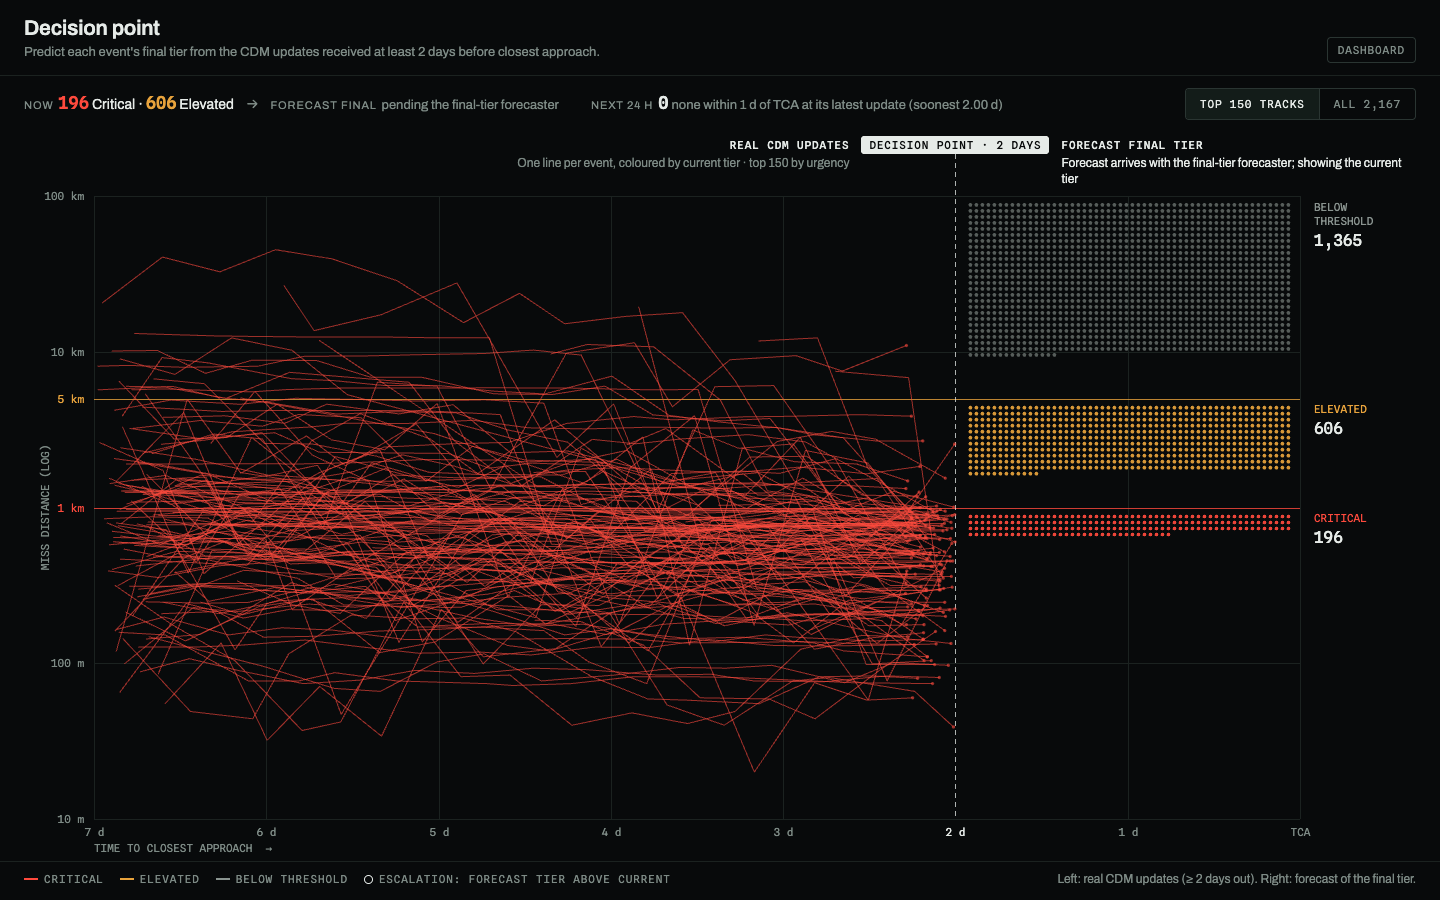
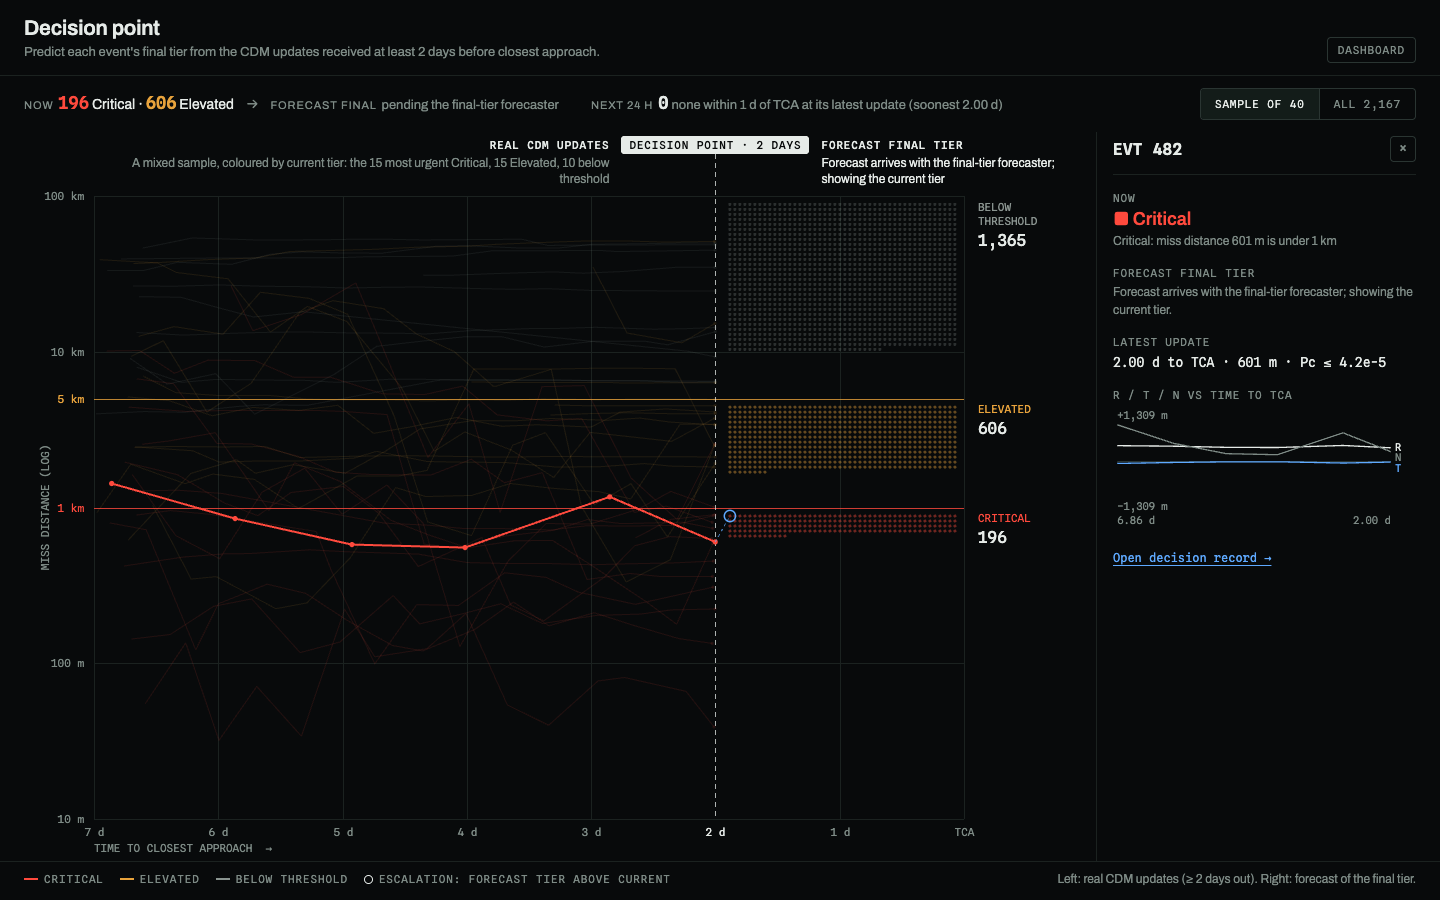
Decision point: mixed 40-track sample, R/T/N chart from history
Default left side is a mixed sample (every escalation once a forecast exists,
plus the 15 most urgent Critical, 15 Elevated, 10 below threshold) at 0.35
opacity; hovered or selected track at full opacity. All 2,167 stays a toggle.
Rebased on #55, so the side card draws R/T/N vs time to TCA from
history[].relative_position_rtn_m. Forecast placeholder unchanged; it switches
to event.forecast automatically when present.

diff --git a/static/js/decision.js b/static/js/decision.js
@@ -8,7 +8,7 @@ import { TIERS, clamp, esc, fmtDays, fmtDist, fmtPc } from "./fmt.js";
 
 const DECISION = 2; // days: the official task predicts from messages at least this far out
 const X_MAX = 7;
-const TOP_N = 150;
+const SAMPLE = { 2: 15, 1: 15, 0: 10 }; // default tracks per current tier, most urgent first, plus every escalation
 const Y_MIN = -2, Y_MAX = 2; // log10 km: 10 m .. 100 km
 const ZONES = [ // forecast tier zones on the right, bounded by the 1 km / 5 km thresholds
   { tier: 2, lo: 0.01, hi: 1, label: ["CRITICAL"] },
@@ -32,7 +32,8 @@ const rank = new Map(); // event_id -> urgency index
 const hist = new Map(); // event_id -> [{t, km}] sorted far -> near
 const marks = new Map(); // event_id -> {x, y, r}
 let anyForecast = false;
-let show = "top";
+let show = "sample";
+let sample = [];
 let selected = null, hover = null;
 let w = 0, h = 0, pitch = 6;
 let dirty = true;
@@ -65,7 +66,9 @@ async function init() {
   events = res.events;
   events.forEach((e, i) => (byId.set(e.event_id, e), rank.set(e.event_id, i)));
   anyForecast = events.some((e) => forecast(e).real);
+  buildSample();
   $("show-all").textContent = `All ${n(events.length)}`;
+  $("show-sample").textContent = `Sample of ${n(sample.length)}`;
   renderCounts();
   renderHeads();
 
@@ -87,7 +90,18 @@ async function init() {
 
 // ---------- data ----------
 
-const shownEvents = () => (show === "all" ? events : events.slice(0, TOP_N));
+const shownEvents = () => (show === "all" ? events : sample);
+
+// The default left side: a mixed sample instead of every track. Every escalation (once a forecast exists), then
+// the most urgent Critical, Elevated and below-threshold events. Events are already in urgency order.
+function buildSample() {
+  const left = { ...SAMPLE };
+  const picked = new Set(events.filter(escalates).map((e) => e.event_id));
+  for (const e of events) {
+    if (left[e.tier] > 0 && !picked.has(e.event_id)) (picked.add(e.event_id), left[e.tier]--);
+  }
+  sample = events.filter((e) => picked.has(e.event_id));
+}
 
 async function loadTracks(ids) {
   const todo = ids.filter((id) => !hist.has(id));
@@ -163,7 +177,9 @@ function renderCounts() {
 
 function renderHeads() {
   $("hd-left-note").textContent =
-    `One line per event, coloured by current tier · ${show === "all" ? `all ${n(events.length)} events` : `top ${TOP_N} by urgency`}`;
+    show === "all"
+      ? `One line per event, coloured by current tier · all ${n(events.length)} events`
+      : `A mixed sample, coloured by current tier: the ${SAMPLE[2]} most urgent Critical, ${SAMPLE[1]} Elevated, ${SAMPLE[0]} below threshold${anyForecast ? ", plus every escalation" : ""}`;
   const note = $("hd-right-note");
   note.textContent = anyForecast
     ? "One mark per event, in the zone of its forecast final tier"
@@ -323,8 +339,8 @@ function line(ax, ay, bx, by) {
 }
 
 function trackAlpha(tier) {
-  const all = show === "all";
-  return tier === 2 ? (all ? 0.5 : 0.6) : tier === 1 ? (all ? 0.35 : 0.55) : all ? 0.16 : 0.32;
+  if (show !== "all") return 0.35; // the sample; the hovered or selected track is redrawn at full opacity
+  return tier === 2 ? 0.5 : tier === 1 ? 0.35 : 0.16;
 }
 
 function drawTracks() {
@@ -523,21 +539,29 @@ function rtnSection(e, pts) {
   const rows = pts.map((p) => ({ t: p.t, v: rtnOf(p.u) })).filter((r) => r.v);
   const L = e.latest.relative_position_rtn_m;
   const latest = Array.isArray(L) ? ` Latest update only: R ${fmtDist(L[0])} · T ${fmtDist(L[1])} · N ${fmtDist(L[2])}.` : "";
-  if (rows.length < 2) {
+  if (!rows.length) {
     return `<p class="dp-missing">Missing field: <code>history[]</code> has no <code>relative_position_r/t/n</code> per update, so there is nothing to plot over time.${latest.replaceAll("-", "−")}</p>`;
   }
-  const W = 288, H = 96, pad = { l: 4, r: 24, t: 6, b: 14 };
+  if (rows.length === 1) return `<p class="dp-missing">One CDM update only, so no line to draw.${latest.replaceAll("-", "−")}</p>`;
+  const W = 288, H = 110, pad = { l: 4, r: 24, t: 14, b: 26 };
   const t0 = rows[0].t, t1 = rows[rows.length - 1].t;
   const vmax = Math.max(1, ...rows.flatMap((r) => r.v.map(Math.abs)));
   const sx = (t) => pad.l + (t0 === t1 ? 0.5 : (t0 - t) / (t0 - t1)) * (W - pad.l - pad.r);
   const sy = (v) => pad.t + (1 - (v + vmax) / (2 * vmax)) * (H - pad.t - pad.b);
-  const series = [["R", C.ink], ["T", C.own], ["N", C.muted]].map(([name, col], k) => {
+  const SER = [["R", C.ink], ["T", C.own], ["N", C.muted]];
+  // end labels, pushed apart so close lines keep readable names
+  const last = rows[rows.length - 1];
+  const ly = SER.map((_, k) => ({ k, y: sy(last.v[k]) + 3 })).sort((a, b) => a.y - b.y);
+  for (let i = 1; i < ly.length; i++) ly[i].y = Math.max(ly[i].y, ly[i - 1].y + 10);
+  const labelY = Object.fromEntries(ly.map((o) => [o.k, o.y]));
+  const series = SER.map(([name, col], k) => {
     const d = rows.map((r, i) => `${i ? "L" : "M"}${sx(r.t).toFixed(1)},${sy(r.v[k]).toFixed(1)}`).join("");
-    const last = rows[rows.length - 1];
-    return `<path d="${d}" fill="none" stroke="${col}" stroke-width="1.25"/><text x="${W - pad.r + 4}" y="${sy(last.v[k]) + 3}" fill="${col}">${name}</text>`;
+    return `<path d="${d}" fill="none" stroke="${col}" stroke-width="1.25"/><text x="${W - pad.r + 4}" y="${labelY[k]}" fill="${col}">${name}</text>`;
   });
   return `<svg class="dp-rtn" viewBox="0 0 ${W} ${H}" role="img" aria-label="R, T and N relative position against time to TCA" font-family="Spline Sans Mono, monospace" font-size="10">` +
     `<line x1="${pad.l}" x2="${W - pad.r}" y1="${sy(0)}" y2="${sy(0)}" stroke="${C.hair2}"/>${series.join("")}` +
+    `<text x="${pad.l}" y="${pad.t - 5}" fill="${C.muted}">+${fmtDist(vmax)}</text>` +
+    `<text x="${pad.l}" y="${H - pad.b + 11}" fill="${C.muted}">−${fmtDist(vmax)}</text>` +
     `<text x="${pad.l}" y="${H - 2}" fill="${C.muted}">${fmtDays(t0)}</text><text x="${W - pad.r}" y="${H - 2}" fill="${C.muted}" text-anchor="end">${fmtDays(t1)}</text></svg>`;
 }
 

diff --git a/static/decision.css b/static/decision.css
@@ -56,7 +56,7 @@ body.dp { background-image: none; }
 .dp-card .esc { color: var(--ink); font-weight: 600; }
 .dp-missing { margin: var(--s1) 0 0; font-size: 12px; line-height: 1.45; color: var(--muted); }
 .dp-missing code { font: 11px var(--mono); color: var(--ink); }
-.dp-rtn { display: block; width: 100%; height: 96px; margin-top: var(--s2); }
+.dp-rtn { display: block; width: 100%; height: auto; margin-top: var(--s2); }
 .dp-open { display: inline-block; margin-top: var(--s5); font: 12px var(--mono); color: var(--own); text-decoration: underline; text-underline-offset: 3px; }
 .dp-open:hover { color: var(--ink); }
 

diff --git a/static/decision.html b/static/decision.html
@@ -22,7 +22,7 @@
 <section class="dp-bar">
   <p class="dp-counts" id="counts" aria-live="polite">Loading events&hellip;</p>
   <div class="seg" role="group" aria-label="Tracks shown">
-    <button type="button" data-show="top" aria-pressed="true">Top 150 tracks</button>
+    <button type="button" data-show="sample" aria-pressed="true" id="show-sample">Sample</button>
     <button type="button" data-show="all" aria-pressed="false" id="show-all">All events</button>
   </div>
 </section>
